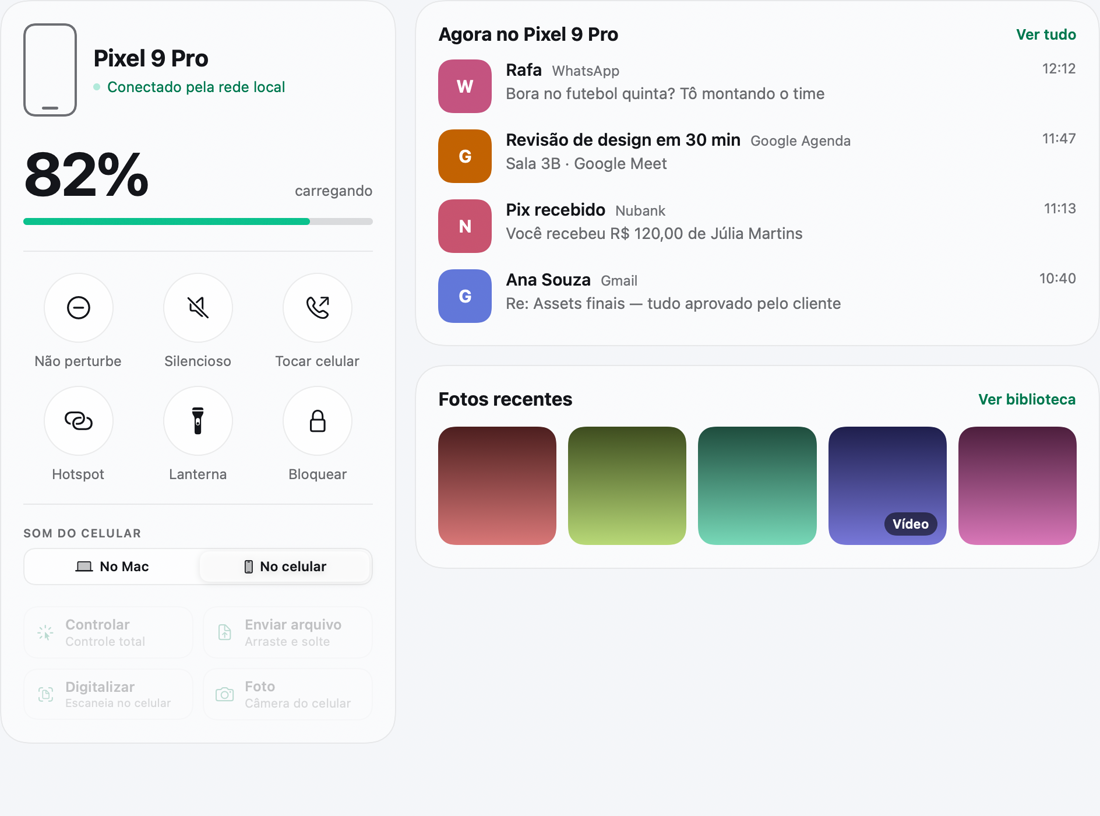
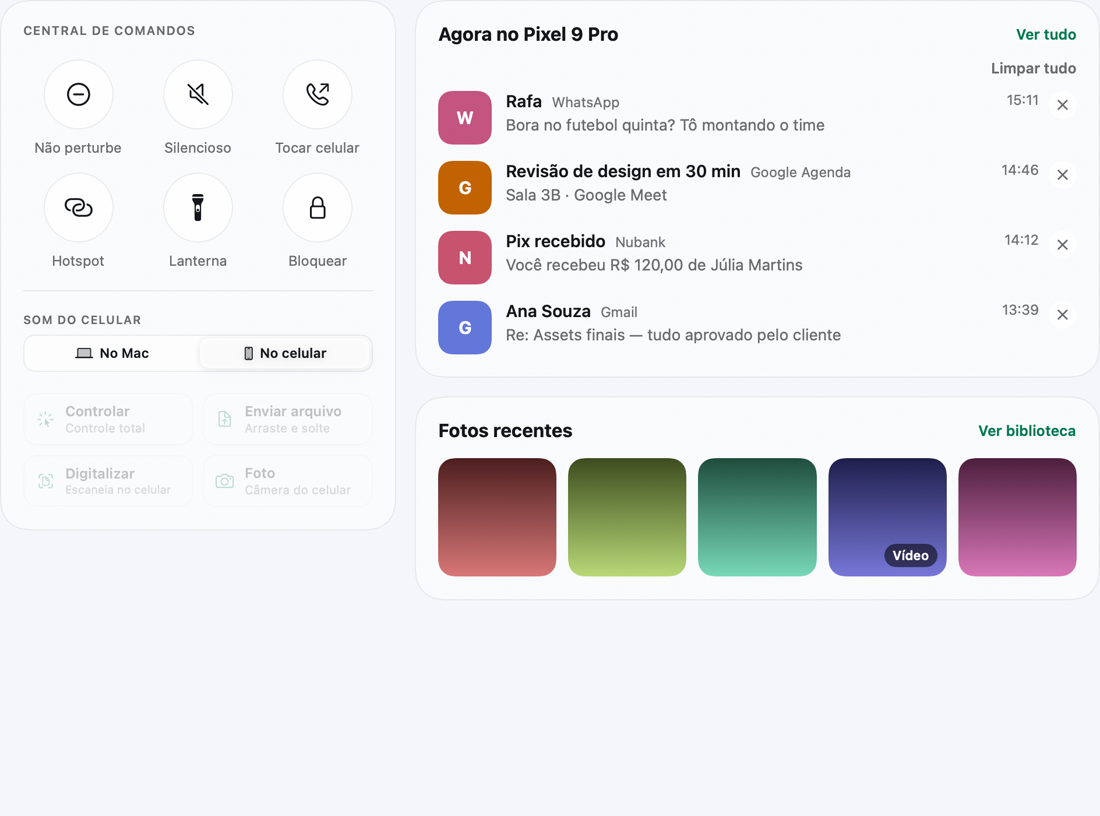
docs: README completo (link da página, baixar e instalar, primeiros passos, recursos novos, perguntas frequentes) e mídias atualizadas

diff --git a/README.md b/README.md
@@ -8,36 +8,121 @@
 Notificações, SMS, fotos, arquivos, área de transferência e controle do celular, pela rede local e sem nuvem.</p>
 
 <p align="center">
+  <a href="https://mastersync-site.vercel.app/"><b>Página do projeto</b></a> ·
+  <a href="https://github.com/masterCorehub/masterSync/releases/latest"><b>Baixar</b></a> ·
+  <a href="docs/GUIA-DE-USO.md">Guia de uso</a> ·
+  <a href="#perguntas-frequentes">Perguntas frequentes</a>
+</p>
+
+<p align="center">
   <img src="docs/media/tour-escuro.gif" width="860" alt="Passeio pelas telas do masterSync: visão geral, SMS, fotos, arquivos e apps">
 </p>
 
 > As imagens e GIFs deste README são telas do app renderizadas com **dados de exemplo** (nomes, mensagens e fotos fictícios). Nada aqui vem de um aparelho real.
 
+## Sumário
+
+- [O que é](#o-que-é)
+- [Baixar e instalar](#baixar-e-instalar)
+- [Primeiros passos](#primeiros-passos)
+- [O que dá para fazer](#o-que-dá-para-fazer)
+- [Duas edições do app Android](#duas-edições-do-app-android)
+- [Privacidade e segurança](#privacidade-e-segurança)
+- [Limitações conhecidas](#limitações-conhecidas)
+- [Perguntas frequentes](#perguntas-frequentes)
+- [Compilar, testar e publicar](#compilar-testar-e-publicar)
+- [Estrutura do projeto](#estrutura-do-projeto)
+- [Documentação](#documentação)
+
 ## O que é
 
 O masterSync liga um celular Android a um Mac por uma conexão criptografada na **mesma rede Wi‑Fi**. Nada passa por servidor de terceiros: o Mac e o celular conversam direto.
 
-- **Mac:** app nativo em SwiftUI e AppKit (macOS 14 ou mais novo).
+- **Mac:** app nativo em SwiftUI e AppKit (macOS 14 ou mais novo), com janela de vidro, barra lateral e ícone na barra de menu.
 - **Android:** app nativo em Kotlin, Jetpack Compose e Material 3 (Android 10 ou mais novo).
-- **Visual alinhado nos dois lados:** acento verde‑água, tema claro e escuro (no Mac, com janela de vidro).
+- **Visual alinhado nos dois lados:** acento verde‑água, tema claro e escuro.
+- **Sem conta, sem nuvem, sem servidor.** Cada recurso é opcional e pode ser desligado a qualquer hora.
+
+## Baixar e instalar
+
+Cada atualização da branch `main` gera uma versão pronta na página de [Releases](https://github.com/masterCorehub/masterSync/releases/latest).
+
+| Arquivo | Para quê |
+|---|---|
+| `MasterSync-macOS.dmg` | Mac: abra e arraste **Nexus masterSync** para **Aplicativos** |
+| `MasterSync-macOS.zip` | Mac: o mesmo app, em arquivo compactado |
+| `MasterSync-Android-Completo-debug.apk` | Android, edição completa (notificações, SMS, códigos 2FA) |
+| `MasterSync-Android-Direto-debug.apk` | Android, edição direta (sem as permissões sensíveis) |
+| `SHA256SUMS.txt` | Hashes para conferir os arquivos baixados |
+
+**Mac.** O app usa assinatura local. Na primeira vez, se o macOS avisar que não pôde verificar o app, clique com o botão direito no app e escolha **Abrir** (ou libere em **Ajustes do Sistema → Privacidade e Segurança**).
+
+**Android.** Permita a instalação de apps do navegador ou do gerenciador de arquivos quando o Android pedir. Os APKs da página de Releases saem em **modo debug**, assinados com uma chave que muda a cada versão: para trocar por uma versão mais nova é preciso **desinstalar a anterior** antes. As duas edições instalam como apps separados e podem coexistir.
+
+## Primeiros passos
+
+Na primeira vez, os dois apps abrem um **guia de primeiro uso**. No Mac ele tem três passos (boas-vindas, conectar o celular, escolher recursos). No Android são quatro (boas-vindas, abrir o Mac, ler o QR, escolher recursos). Dá para pular, e dá para rever depois: no Mac em **Configurações → Rever introdução**, no Android na aba **Conexão → Rever introdução**.
+
+<p align="center">
+  <img src="docs/media/onboarding-boas-vindas-escuro.png" width="320" alt="Boas-vindas do Mac">
+  &nbsp;&nbsp;
+  <img src="docs/media/onboarding-recursos-escuro.png" width="320" alt="Escolha de recursos do Mac">
+</p>
+
+O pareamento, passo a passo:
+
+1. **Mac:** abra o `Nexus masterSync.app`, vá em **Dispositivos → Ativar rede local → Gerar QR**.
+2. **Android:** abra o app, vá em **Dispositivos → Ler QR** e aponte para o código na tela do Mac.
+3. **Mac:** confira o nome e o modelo do celular e toque em **Autorizar**.
+4. Ligue o que quiser usar nos dois lados. Cada recurso tem o próprio interruptor e pede só as permissões de que precisa.
+
+Para controle do celular, apps fixados, armazenamento interno e botões como **Bloquear**, configure o **controle por Wi‑Fi (ADB)**. O guia do Mac ajuda a instalar as ferramentas, ou, se preferir, pelo terminal:
+
+```bash
+brew install android-platform-tools scrcpy
+```
+
+O passo a passo completo (USB, Wi‑Fi, pareamento) está no [guia de uso](docs/GUIA-DE-USO.md).
 
 ## O que dá para fazer
 
-### Visão geral do celular
+### Central de comandos (Visão geral)
 
-Bateria, estado da conexão e seis botões que funcionam de verdade: **Não perturbe, Silencioso, Tocar celular, Hotspot, Lanterna e Bloquear**. Ao lado, as **notificações de agora** e as **últimas fotos** do celular. Também escolhe se o som do celular sai **no Mac ou no celular**.
+A tela inicial do Mac é uma central com seis botões que funcionam de verdade: **Não perturbe, Silencioso, Tocar celular, Hotspot, Lanterna e Bloquear**. Ao lado ficam as **notificações de agora** (cada uma com um **X** para excluir, mais **Limpar tudo**) e as **últimas fotos** do celular. Também escolhe se o som do celular sai **no Mac ou no celular**, e tem atalhos para Controlar, Enviar arquivo, Digitalizar e Foto. O nome do celular, o estado da conexão e a bateria ficam na barra lateral.
 
-<p align="center"><img src="docs/media/visao-geral.gif" width="780" alt="Visão geral em tema escuro e claro"></p>
+<p align="center"><img src="docs/media/visao-geral.gif" width="780" alt="Central de comandos em tema escuro e claro"></p>
+
+### Barra de menu
+
+O ícone do masterSync na barra de menu mostra a **bateria e o número de não lidas** (notificações e SMS) e abre um painel com:
+
+- os seis botões de comando;
+- espelhar a tela (abre a janela já mostrando o celular), **ouvir o som do celular no Mac** com um clique, controlar, digitalizar e enviar arquivo;
+- as **últimas notificações**, com X para excluir e **Limpar**;
+- apps fixados e o último texto copiado no celular.
+
+### Notificações
+
+As notificações do Android aparecem no Mac, com **responder, dispensar e limpar tudo** (some no celular também). Você escolhe o estilo em **Notificações → Estilo dos avisos**:
+
+- **Padrão do macOS:** o aviso normal do sistema, com o ícone do app do celular anexado como imagem.
+- **Personalizado:** um cartão no canto da tela, acima de qualquer app, com o **ícone do app do celular**. Mostra até 3 avisos, some sozinho em 7 segundos e tem campo para **responder ali mesmo**, sem tirar o foco do que você está fazendo. O modo **Silenciar avisos no Mac** também o silencia.
+
+Mensagens de status do app (como "Pedido de foto recusado") aparecem como um aviso flutuante que some sozinho.
+
+### Códigos de verificação (2FA)
+
+Quando chega um código, o Mac copia o número e avisa num pop‑up no canto da tela. O código não vai para o histórico, some da área de transferência em 2 minutos e funciona até com o celular bloqueado.
 
 ### SMS no Mac
 
-Leia, receba e responda os SMS do celular pelo Mac, com nome dos contatos, busca, contador de não lidas e mensagens novas na hora. Só SMS: o RCS do Google Mensagens não é compartilhado pelo Android. Vem desligado e só funciona na versão completa do app, depois que você permite o acesso.
+Leia, receba e responda os SMS do celular pelo Mac, com nome dos contatos, busca, contador de não lidas e mensagens novas na hora. Só SMS: o RCS do Google Mensagens não é compartilhado pelo Android. Vem desligado e só funciona na edição completa do app, depois que você permite o acesso.
 
 <p align="center"><img src="docs/media/sms.gif" width="780" alt="Tela de SMS"></p>
 
 ### Fotos
 
-A galeria do celular no Mac, com abas (Tudo, Fotos, Vídeos, Capturas, Favoritas), grade por dia, seleção em lote, álbuns e um visualizador com setas do teclado. Atualiza sozinha quando você tira fotos novas.
+A galeria do celular no Mac, com abas (Tudo, Fotos, Vídeos, Capturas, Favoritas), grade por dia ou mês, seleção em lote, álbuns e um visualizador com setas do teclado. Atualiza sozinha quando você tira fotos novas.
 
 <p align="center"><img src="docs/media/fotos.gif" width="780" alt="Galeria de fotos"></p>
 
@@ -57,15 +142,13 @@ Na tela **Apps**, fixe apps do celular: cada um vira um **app do Mac** (Launchpa
 
 <p align="center"><img src="docs/media/apps-escuro.png" width="780" alt="Tela de apps do celular"></p>
 
-### Notificações, códigos e área de transferência
-
-- **Notificações** do celular no Mac, com resposta, dispensar e limpar tudo (some no celular também).
-- **Códigos de verificação (2FA):** quando chega um código, o Mac copia o número e avisa num pop‑up no canto da tela. O código não vai para o histórico, some da área de transferência em 2 minutos e funciona até com o celular bloqueado.
-- **Área de transferência** compartilhada, com texto e imagens, inclusive com outros teclados (por USB ou Wi‑Fi com ADB).
-
 ### Digitalizar
 
-Aperte o atalho (personalizável) ou o botão **Digitalizar**: o celular abre a câmera de documentos, e a página chega ao Mac com um **pop‑up de progresso**. Cada digitalização abre uma janela com **Salvar, Copiar, Enviar na conversa e Excluir**.
+Aperte o atalho (personalizável) ou o botão **Digitalizar**: o celular abre a câmera de documentos, e a página chega ao Mac com um **pop‑up de progresso**. Cada digitalização abre uma janela com **Salvar, Copiar, Enviar na conversa e Excluir**. A digitalização que veio do celular não é reenviada sozinha: só vai de volta se você pedir.
+
+### Área de transferência
+
+Texto e imagens compartilhados entre os dois aparelhos, inclusive com outros teclados (por USB ou Wi‑Fi com ADB). O histórico de texto é opcional.
 
 ### Player de mídia
 
@@ -81,29 +164,21 @@ O que está tocando no celular (Spotify, YouTube e outros), com capa, barra de p
 
 <p align="center"><img src="docs/media/tour-claro.gif" width="860" alt="Passeio pelas telas em tema claro"></p>
 
-## Baixar
+## Duas edições do app Android
 
-Cada atualização da branch `main` gera uma versão pronta na página de [Releases](https://github.com/masterCorehub/masterSync/releases/latest):
+| | Completa | Direta |
+|---|---|---|
+| Arquivos, galeria, área de transferência, digitalização | sim | sim |
+| Espelhar tela, localizar celular | sim | sim |
+| Notificações no Mac, com resposta | sim | não |
+| SMS no Mac | sim | não |
+| Códigos 2FA e controle de mídia | sim | não |
+| Lanterna e tocar celular | sim | sim |
+| Não perturbe e silencioso (pedem acesso ao Não Perturbe) | sim | não |
+| Permissões sensíveis (SMS, contatos, notificações) | pede | não pede |
+| Pensada para | uso próprio e testes | instalação sem permissões sensíveis |
 
-- **Mac:** `MasterSync-macOS.dmg` (abra e arraste para Aplicativos) ou `MasterSync-macOS.zip`.
-- **Android:** `MasterSync-Android-Completo.apk` (com notificações, SMS e códigos 2FA) ou `MasterSync-Android-Direto.apk` (sem as permissões sensíveis).
-
-O app do Mac usa assinatura local; se o macOS avisar ao abrir, clique com o botão direito e escolha **Abrir**. Sem a chave de assinatura configurada, os APKs saem em modo debug.
-
-## Como começar
-
-1. **Mac:** abra o `Nexus masterSync.app`, vá em **Dispositivos → Ativar rede local → Gerar QR**.
-2. **Android:** abra o app, vá em **Dispositivos → Ler QR** e confira o nome do Mac.
-3. No Mac, confira o nome e o modelo do celular e toque em **Autorizar**.
-4. Ligue o que quiser usar nos dois lados. Cada recurso tem o próprio interruptor e pede só as permissões de que precisa.
-
-Para controle do celular, apps fixados, armazenamento interno e botões como Bloquear, configure o **controle por Wi‑Fi (ADB)** na tela Dispositivos. É preciso ter o `adb` e, para o controle na janelinha, o `scrcpy` instalados no Mac:
-
-```bash
-brew install android-platform-tools scrcpy
-```
-
-O passo a passo completo (USB, Wi‑Fi, pareamento) está no [guia de uso](docs/GUIA-DE-USO.md).
+A edição direta instala com o sufixo `.direct` e é um app separado.
 
 ## Privacidade e segurança
 
@@ -116,27 +191,33 @@ O passo a passo completo (USB, Wi‑Fi, pareamento) está no [guia de uso](docs/
 
 Detalhes em [permissões e distribuição](docs/PERMISSOES-E-DISTRIBUICAO.md) e no [protocolo](docs/PROTOCOLO.md).
 
-## Duas edições do app Android
-
-| | Completa | Direta |
-|---|---|---|
-| Arquivos, galeria, área de transferência, digitalização | sim | sim |
-| Notificações, SMS, lanterna e silencioso, códigos 2FA | sim | não |
-| Pensada para | uso próprio e testes | instalação sem permissões sensíveis |
-
 ## Limitações conhecidas
 
 - **RCS** (Google Mensagens) não aparece: o Android não o expõe a outros apps.
 - **Hotspot:** o Android recente não deixa ligar o hotspot de fora; o botão abre a tela de hotspot do celular.
 - **Armazenamento interno** vem do ADB: a pasta `Android/data` é bloqueada pelo próprio Android.
+- **Ícone do aviso do macOS:** o ícone pequeno do canto é sempre o do masterSync; o do app do celular aparece como imagem ao lado. O estilo **Personalizado** mostra o ícone do app do celular em destaque.
 - Remetentes com nome (como "NUBANK") podem ser lidos, mas não respondidos por SMS.
-- O app do Mac usa assinatura local; a notarização faz parte do fluxo de publicação.
+- O app do Mac usa assinatura local; a notarização da Apple não está configurada.
+- Os APKs das Releases saem em modo debug enquanto a chave de assinatura não estiver cadastrada no repositório.
 
-## Compilar e testar
+## Perguntas frequentes
+
+**Preciso de internet?** Só para baixar o app. Depois, o Mac e o celular só precisam estar na mesma rede Wi‑Fi.
+
+**Funciona com celular de outra marca?** O app é Android puro (Android 10 ou mais novo). O controle do celular depende de ADB sem fio, disponível a partir do Android 11.
+
+**Qual edição do Android devo instalar?** A **Completa**, se você quer notificações e SMS no Mac. A **Direta**, se prefere instalar sem permissões sensíveis.
+
+**Por que o Mac avisa que não conhece o app?** O app usa assinatura local, sem certificado pago da Apple. Clique com o botão direito no app e escolha **Abrir** na primeira vez.
+
+**As notificações do Mac aparecem sobre o app que estou usando?** O estilo **Personalizado** aparece acima das outras janelas sem roubar o teclado; o **Padrão do macOS** segue as regras do Centro de Notificações.
+
+## Compilar, testar e publicar
 
 ```bash
 # Mac (macOS 14+, Swift 5.9+)
-./scripts/build-macos.sh              # gera o ZIP em dist/
+./scripts/build-macos.sh              # gera o app, o ZIP e o DMG em dist/
 swift test --package-path macOS
 
 # Android (JDK 17 ou 21, SDK Platform 36)
@@ -145,14 +226,16 @@ cd android
 ./gradlew :app:testFullDebugUnitTest :app:testDirectDebugUnitTest
 ```
 
+**Publicação automática.** O fluxo [`release.yml`](.github/workflows/release.yml) roda a cada push na `main`: compila o Mac (DMG e ZIP), roda os testes do Android, gera os dois APKs e publica tudo na Release `latest`. Para uma versão fixa, crie uma tag `v*` (por exemplo `v1.0`). Assinatura opcional, por segredos do repositório: `MACOS_CERT_P12_BASE64`, `MACOS_CERT_PASSWORD` e `MACOS_SIGN_IDENTITY` (Mac, Developer ID); `ANDROID_KEYSTORE_BASE64`, `ANDROID_KEYSTORE_PASSWORD`, `ANDROID_KEY_ALIAS` e `ANDROID_KEY_PASSWORD` (Android, APKs de release). Sem eles, o Mac sai com assinatura local e o Android em modo debug.
+
 As imagens e GIFs deste README são gerados pelos próprios testes de tela:
 
 ```bash
-NEXUS_RENDER_SCALE=2 swift test --package-path macOS --filter "ShellRenderTests|MiniPlayerRenderTests"
+NEXUS_RENDER_SCALE=2 swift test --package-path macOS --filter "ShellRenderTests|MiniPlayerRenderTests|OnboardingFlowTests"
 scripts/make-readme-media.sh          # precisa do ffmpeg; saída em docs/media/
 ```
 
-## Estrutura
+## Estrutura do projeto
 
 ```
 macOS/                 app do Mac (SwiftUI/AppKit) e testes
@@ -160,11 +243,14 @@ macOS/                 app do Mac (SwiftUI/AppKit) e testes
   Sources/NexusMasterSync/  telas, integrações com o macOS, ADB e scrcpy
 android/               app Android (Kotlin/Compose), edições completa e direta
 docs/                  arquitetura, protocolo, design, guia de uso
-scripts/               build do Mac e geração das mídias do README
+scripts/               build do Mac e do DMG, geração das mídias do README
+site/                  página de apresentação (HTML, CSS e JS puros)
+.github/workflows/     publicação automática das versões
 ```
 
 ## Documentação
 
+- [Página do projeto](https://mastersync-site.vercel.app/)
 - [Guia de uso e instalação](docs/GUIA-DE-USO.md)
 - [Arquitetura](docs/ARQUITETURA.md)
 - [Protocolo](docs/PROTOCOLO.md)
